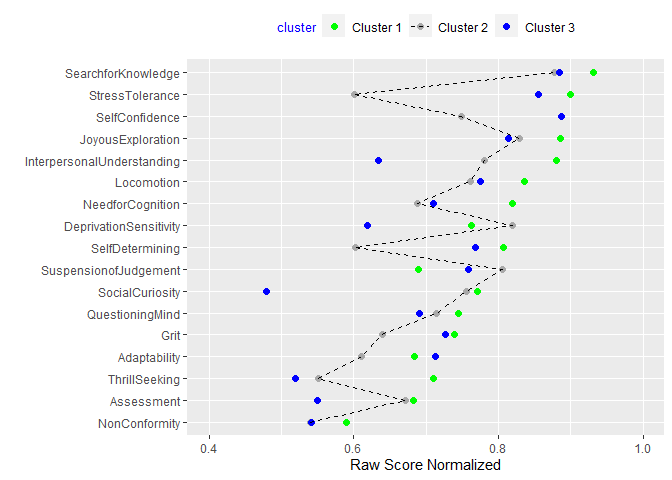
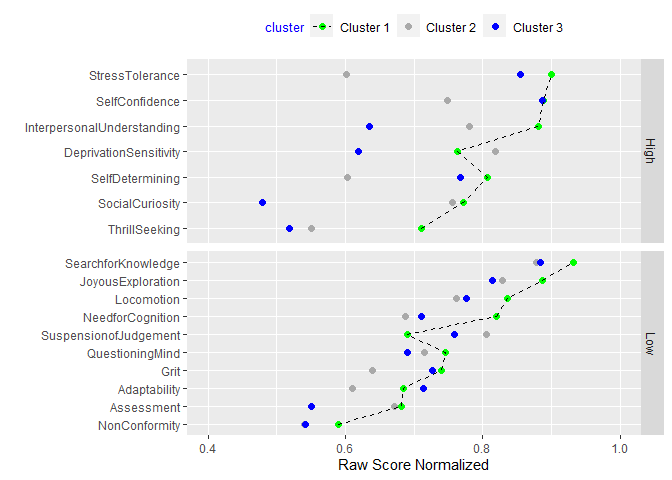
5/11/2020 #2

diff --git a/CATTCon_Personality_Dashboard.md b/CATTCon_Personality_Dashboard.md
@@ -33,15 +33,17 @@ Northrop Grumman CATTConV Survey Results
 
 #### Personality Trait Boxplots
 
-##### Northrop Grumman Cybersecurity professionals are displayed in the **green** boxplots. \#\#\#\#\#\# Boxplots graphically depict numerical data through their quartiles. The median value is labeled in **red** text. Outliers are plotted as black dots.
+##### Northrop Grumman Cybersecurity professionals are displayed in the **green** boxplots.
 
-###### T Scores are used to display results in comparison to a reference. A T Score of 50 represents the population average, with 40 and 60 representing one standard deviation higher and lower than the population, respectively.
+##### Boxplots graphically depict numerical data through their quartiles. The median value is labeled in **red** text. Outliers are plotted as black dots.
 
-###### These T Scores were based on results published in peer reviewed literature noted in the References and data available from the Eugene-Springfield Community Sample at <https://dataverse.harvard.edu/dataverse/ESCS-Data>.
+##### T Scores are used to display results in comparison to a reference. A T Score of 50 represents the population average, with 40 and 60 representing one standard deviation higher and lower than the population, respectively.
+
+##### These T Scores were based on results published in peer reviewed literature noted in the References and data available from the Eugene-Springfield Community Sample at <https://dataverse.harvard.edu/dataverse/ESCS-Data>.
 
 ![](CATTCon_Personality_Dashboard_files/figure-gfm/unnamed-chunk-5-1.png)<!-- -->
 
-###### The definition of each dimension, in order of their scores among Northrop Grumman’s Cybersecurity Professionals, is as follows:
+##### The definition of each dimension, in order of their scores among Northrop Grumman’s Cybersecurity Professionals, is as follows:
 
   - *StressTolerance*: Ability to cope win the anxiety inherent in
     confronting the new, unexpected, complex, mysterious, and obscure
@@ -84,7 +86,7 @@ Northrop Grumman CATTConV Survey Results
 
 ![](CATTCon_Personality_Dashboard_files/figure-gfm/unnamed-chunk-6-1.png)<!-- -->
 
-###### Positive Correlations with Experience
+##### Positive Correlations with Experience
 
   - *Self-Efficacy*: belief in one’s own ability to deal with a
     prospective situation in cybersecurity roles.
@@ -96,7 +98,7 @@ Northrop Grumman CATTConV Survey Results
     confronting the new, unexpected, complex, mysterious, and obscure
     events.
 
-###### Negative Correlations with Experience
+##### Negative Correlations with Experience
 
   - *Assessment*: focus on self-evaluation and “doing the right thing.”
   - *DeprivationSensitivity*: Seeking information to escape the tension
@@ -105,31 +107,33 @@ Northrop Grumman CATTConV Survey Results
 
 #### Self-Efficacy Correlations
 
-##### Respondants rated Self-Efficacy, one’s own ability to deal with a prospective situation, for the knowledge and abilty to work in the cybersecurity field.
+##### Northrop Grumman Cybersecurity and non-cybersecurity Respondants rated Self-Efficacy (one’s own ability) for the knowledge and abilty to work in the cybersecurity field.
 
 ![](CATTCon_Personality_Dashboard_files/figure-gfm/unnamed-chunk-7-1.png)<!-- -->
 
-###### Northrop Grumman’s Cybersecurity Professionals: Self-Confidence and Need for Cognition correlated highest
+##### Cybersecurity Professionals: Self-Confidence and Need for Cognition correlated highest
 
-###### Others Northrol Grumman Employees (non-Cybersecurity): Joyous Exploration, Stress Tolerance, and Locomotion correlated highest
+##### Non-cybersecurity Professionals: Joyous Exploration, Stress Tolerance, and Locomotion correlated highest
 
 #### K Means Clustering
 
-##### K means clustering identified three distinct personality profiles based on respondant responses.
+##### K means clustering identified three distinct personality profiles based on respondant responses. The chart below is faceted into two groups of personality dimensions based on deviation between clusters (high and low).
 
 ![](CATTCon_Personality_Dashboard_files/figure-gfm/unnamed-chunk-8-1.png)<!-- -->
 
-###### The largest cluster, *Cluster 2*, generally scored high across all the dimensions.
+##### The largest cluster, *Cluster 1*, generally scored high across all the dimensions.
 
-###### Cluster 1, consists of respondants with significantly lower scores on Stress Tolerance, Self Determining, Thrill Seeking and significantly higher Suspension of Judgement.
+##### Cluster 2, consists of respondants with significantly lower scores on Stress Tolerance, Self Determining, Thrill Seeking and higher Suspension of Judgement.
 
-###### Cluster 3, consists of respondants with significantly lower scores on Social Curiosity, Interpersonal Understanding, Thrill Seeking, Deprivation Sensitivity, and Assessment.
+##### Cluster 3, consists of respondants with significantly lower scores on Social Curiosity, Interpersonal Understanding, Thrill Seeking, Deprivation Sensitivity, and Assessment.
 
-###### Little variability was observed between personality clusters in the following dimensions: Non-Conformity, Search for Knowledge, Joyous Exploration, Questioning Mind, Locomotion, Adaptabiliy, Grit, Suspension of Judgement.
+##### Little variability was observed between personality clusters in the following dimensions: Non-Conformity, Search for Knowledge, Joyous Exploration, Questioning Mind, Locomotion, Adaptabiliy, Grit, Suspension of Judgement.
 
 #### Correlation Analysis of the Questionnaire’s Personality Dimensions
 
-#### Correlation coefficients are displayed and colored based on strength. Green boxes are drawn around Hierarchical Clustering of personality dimensions based on responses to the personality questionnaire.
+#### Correlation coefficients are displayed and shaded based on strength.
+
+#### Green boxes are drawn from Hierarchical Clustering of personality dimensions.
 
 ![](CATTCon_Personality_Dashboard_files/figure-gfm/unnamed-chunk-9-1.png)<!-- -->
 
